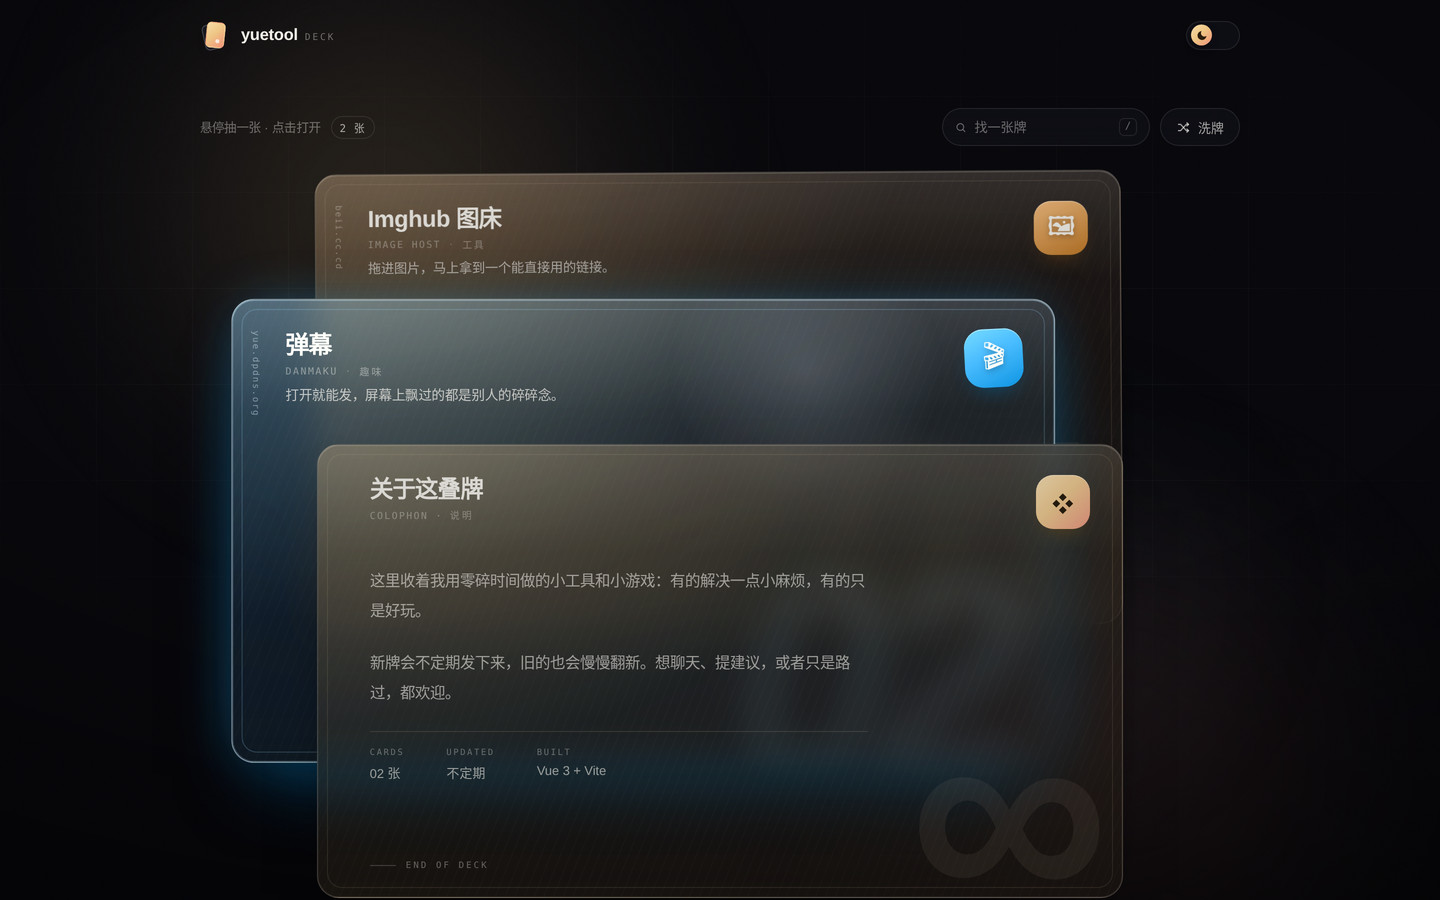
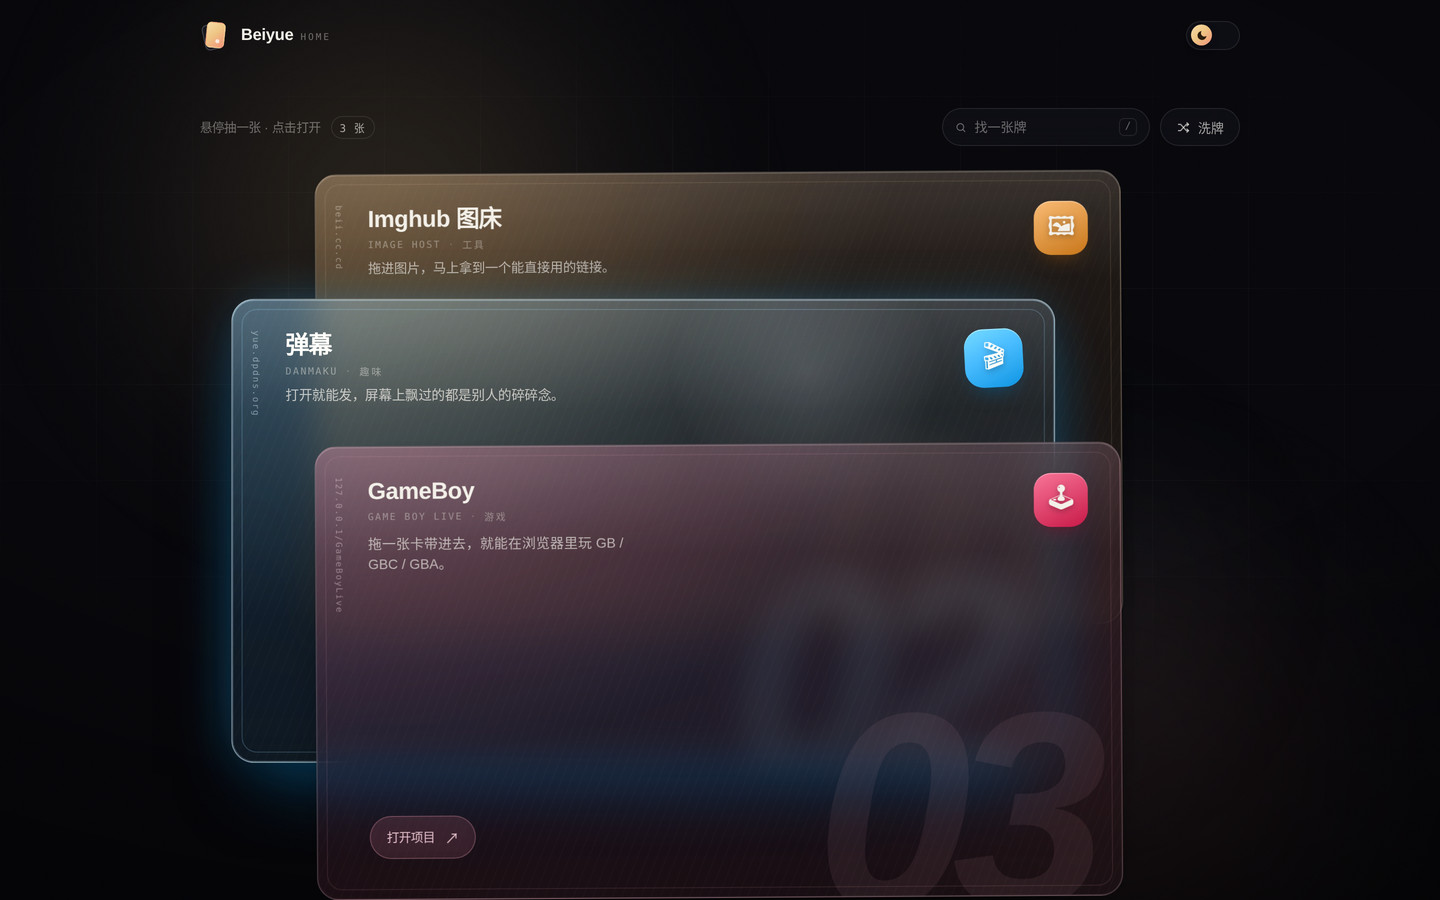
feat: rename image host to Imghub, add danmaku card, card lift effect

diff --git a/src/styles/card.css b/src/styles/card.css
@@ -366,6 +366,33 @@
 }
 
 @media (max-width: 899.98px) {
+  /* 竖排时没有悬停抽出，卡面裁到「露出的那一条」：
+     发牌上升的过程中不会露出前一张的牌身 */
+  .deck__item:not(:last-child) .card__face {
+    aspect-ratio: auto;
+    height: 100%;
+  }
+  /* 牌身被裁到一条，牌面大序号会挤进这一条，竖屏直接藏掉 */
+  .deck__item:not(:last-child) .card__series {
+    display: none;
+  }
+  /* 最后一张不必再撑满 9:16 去盖住前一张，收成 4:3 更像一张摊开的牌 */
+  .deck__item:last-child {
+    --card-rw: 16;
+    --card-rh: 12;
+  }
+  .deck__item:last-child .card__series {
+    font-size: 150px;
+    bottom: -18px;
+  }
+  .deck__item:last-child .card__desc {
+    display: -webkit-box;
+  }
+  .deck__item:last-child .card__cta {
+    bottom: 22px;
+    padding: 8px 13px;
+    font-size: 0.72rem;
+  }
   .card__desc {
     display: none;
   }
